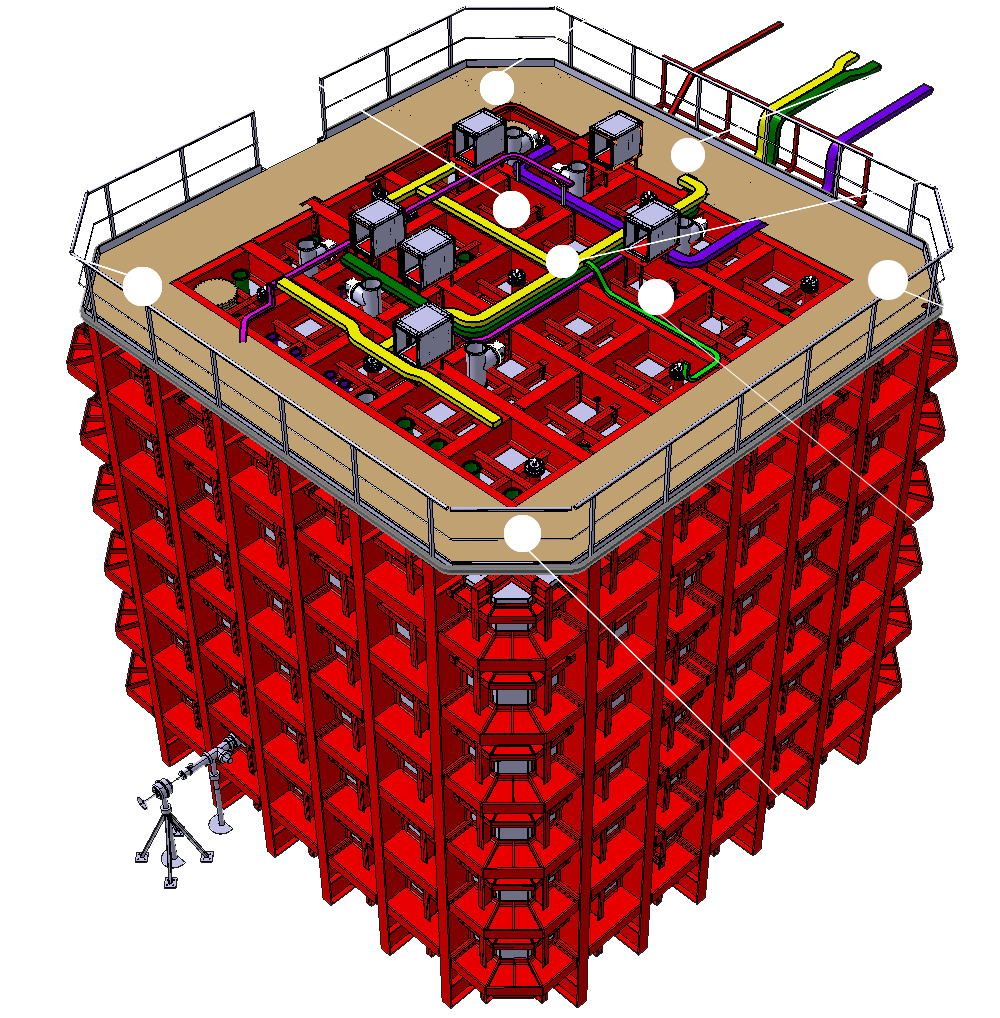
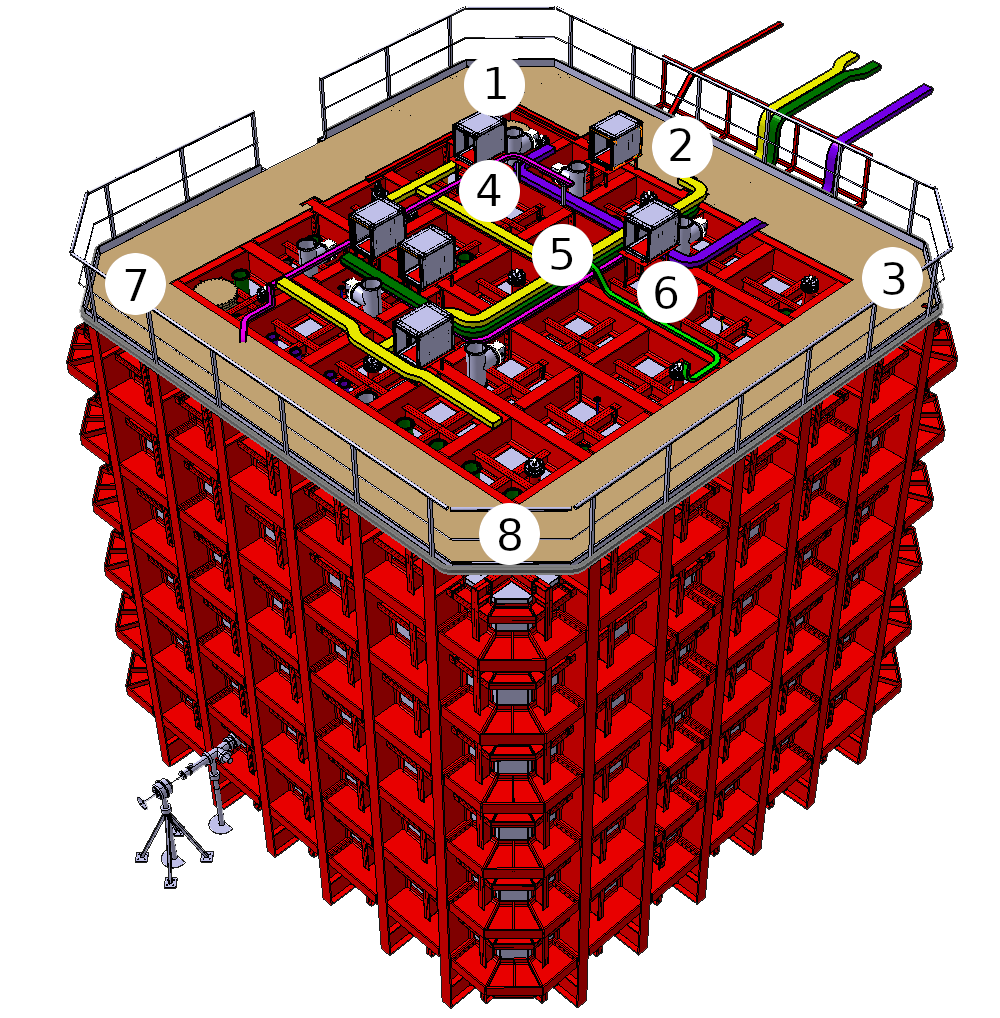
cryostat js

diff --git a/cryostat/cryostat.template.html b/cryostat/cryostat.template.html
@@ -16,6 +16,13 @@
         </div>
 
         <table class="data_table cryostat_inner_pressure">
+            <thead>
+            <tr>
+                <th class="data_table__circle_wrapper">
+                    <span class="data_table__circle">4</span>
+                </th>
+            </tr>
+            </thead>
             <tbody>
             <tr>
                 <th>
@@ -41,6 +48,13 @@
         </table>
 
         <table class="data_table cryostat_outer_pressure">
+            <thead>
+            <tr>
+                <th class="data_table__circle_wrapper">
+                    <span class="data_table__circle">2</span>
+                </th>
+            </tr>
+            </thead>
             <tbody>
             <tr>
                 <th>
@@ -66,6 +80,13 @@
         </table>
 
         <table class="data_table cryostat_beam_plug_lesker_vacuum_gauge">
+            <thead>
+            <tr>
+                <th class="data_table__circle_wrapper">
+                    <span class="data_table__circle">6</span>
+                </th>
+            </tr>
+            </thead>
             <tbody>
             <tr>
                 <th>
@@ -91,6 +112,13 @@
         </table>
 
         <table class="data_table cryostat_inner_pressure_2">
+            <thead>
+            <tr>
+                <th class="data_table__circle_wrapper">
+                    <span class="data_table__circle">5</span>
+                </th>
+            </tr>
+            </thead>
             <tbody>
             <tr>
                 <th>
@@ -117,6 +145,13 @@
             </tbody>
         </table>
         <table class="data_table cryostat_penetration_pipe1">
+            <thead>
+            <tr>
+                <th class="data_table__circle_wrapper">
+                    <span class="data_table__circle">1</span>
+                </th>
+            </tr>
+            </thead>
             <tbody>
             <tr>
                 <th>Pen. pipe 33.1</th>
@@ -155,6 +190,13 @@
         </table>
 
         <table class="data_table cryostat_penetration_pipe2">
+            <thead>
+            <tr>
+                <th class="data_table__circle_wrapper">
+                    <span class="data_table__circle">3</span>
+                </th>
+            </tr>
+            </thead>
             <tbody>
             <tr>
                 <th>Pen. pipe 33.2</th>
@@ -172,6 +214,13 @@
             </tbody>
         </table>
         <table class="data_table cryostat_penetration_pipe3">
+            <thead>
+            <tr>
+                <th class="data_table__circle_wrapper">
+                    <span class="data_table__circle">8</span>
+                </th>
+            </tr>
+            </thead>
             <tbody>
             <tr>
                 <th>Pen. pipe 33.3</th>
@@ -200,6 +249,13 @@
         </table>
 
         <table class="data_table cryostat_penetration_pipe4">
+            <thead>
+            <tr>
+                <th class="data_table__circle_wrapper">
+                    <span class="data_table__circle">7</span>
+                </th>
+            </tr>
+            </thead>
             <tbody>
             <tr>
                 <th>Pen. pipe 33.4</th>

diff --git a/css/cryostat.css b/css/cryostat.css
@@ -24,6 +24,20 @@
 .data_table {
     min-width: 70px;
 }
+.data_table__circle_wrapper {
+    display: flex;
+    justify-content: center;
+}
+.data_table__circle {
+    width: 15px;
+    height: 15px;
+    border-radius: 50%;
+    border: 1px solid white;
+    display: flex;
+    justify-content: center;
+    align-items: center;
+    text-align: center;
+}
 
 .data_table th {
     font-size: 8px;
@@ -31,17 +45,17 @@
 
 .cryostat_inner_pressure {
     left: 5px;
-    top: 20px;
+    top: 220px;
 }
 
 .cryostat_inner_pressure_2 {
-    left: 253px;
-    top: 83px;
+    left: 193px;
+    top: 300px;
 }
 
 .cryostat_outer_pressure {
-    left: 210px;
-    top: 25px;
+    left: 103px;
+    top: -45px;
 }
 
 .cryostat_beam_plug_lesker_vacuum_gauge {
@@ -54,28 +68,28 @@
 }
 
 .cryostat_penetration_pipe1 {
-    top: -42px;
-    left: 130px;
+    top: -45px;
+    left: 15px;
 }
 
 .cryostat_penetration_pipe2 {
     left: 245px;
-    top: 165px;
+    top: -45px;
 }
 
 .cryostat_penetration_pipe3 {
-    top: 280px;
-    left: 225px;
+    top: 80px;
+    left: 245px;
 }
 
 .cryostat_penetration_pipe4 {
-    top: 85px;
-    left: 28px;
+    top: 80px;
+    left: 15px;
 }
 
 .cryostat_cv {
-    left: 0;
-    top: 380px;
+    left: 5px;
+    top: 340px;
 }
 
 .cryostat_gas {
@@ -85,7 +99,7 @@
 
 .cryostat_ambient {
     top: 450px;
-    left: 250px;
+    left: 230px;
 }
 
 @media screen and (min-width: 600px) {
@@ -93,9 +107,10 @@
         font-size: 12px;
         padding: 5px;
     }
+
     .cryostat_container {
         position: relative;
-        width: 550px;
+        width: 595px;
         height: 75vh;
     }
 
@@ -128,7 +143,7 @@
     }
 
     .cryostat_outer_pressure {
-        left: 365px;
+        left: 400px;
         top: 25px;
     }
 
@@ -151,7 +166,7 @@
     .cryostat_penetration_pipe2 {
         left: auto;
         top: 250px;
-        right: 13px;
+        right: 1px;
     }
 
     .cryostat_penetration_pipe3 {
@@ -189,6 +204,7 @@
         font-size: 12px;
         padding: 5px;
     }
+
     .cryostat_container {
         position: relative;
         width: 1000px;

diff --git a/css/app.css b/css/app.css
@@ -61,7 +61,7 @@ a {
   width: 100%;
   height: 50px;
   padding-top: 20px;
-  padding-bottom: 30px;
+  padding-bottom: 50px;
 }
 .page-title {
   position: absolute;
